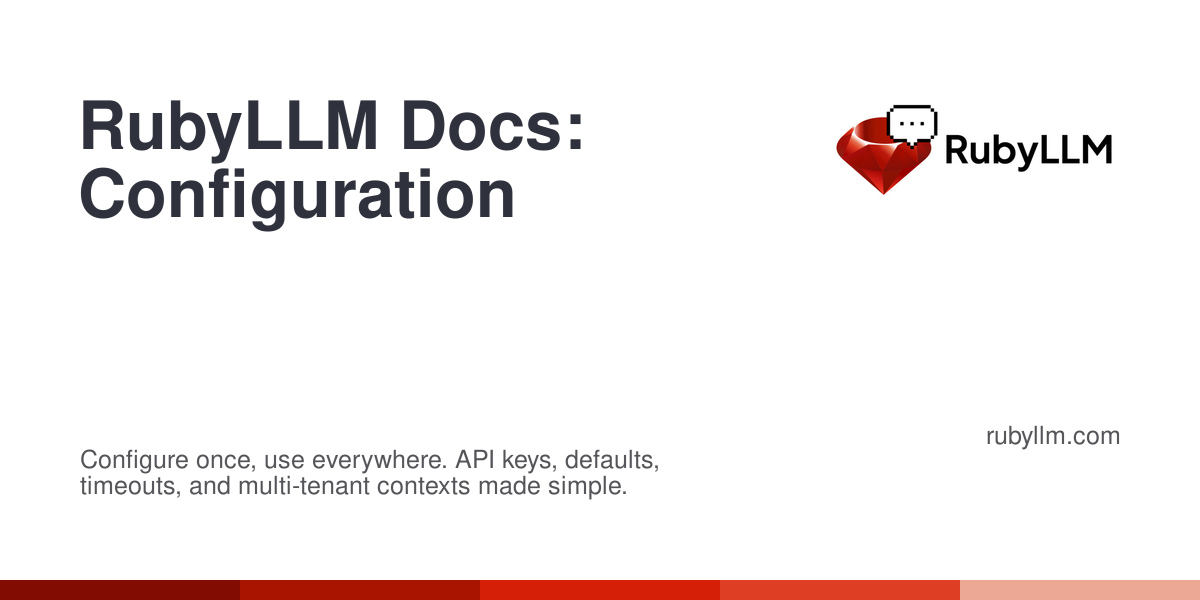
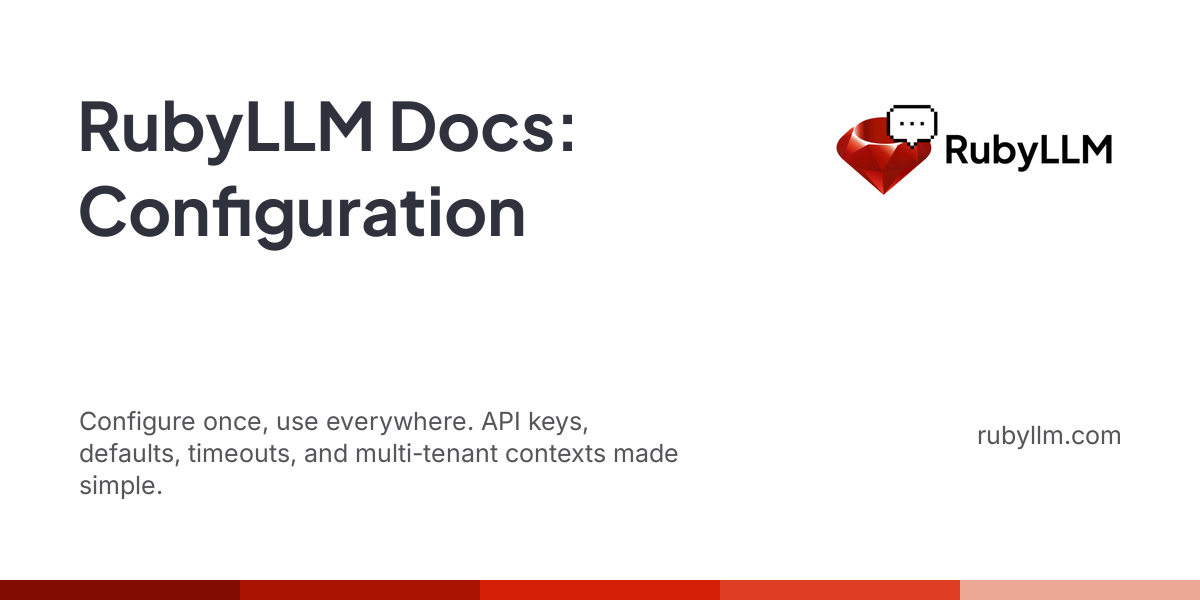
ci: install fonts for jekyll-og-image generation
Add Plus Jakarta Sans and Inter fonts to the docs workflow to ensure
proper rendering of Open Graph images with the configured typography

Changed region(s): [[0.0617, 0.15, 0.4933, 0.42], [0.0617, 0.69, 0.5858, 0.84], [0.8017, 0.69, 0.925, 0.75]]

diff --git a/docs/guides/index.md b/docs/guides/index.md
@@ -10,3 +10,4 @@ description: Learn to build with AI. From chat basics to production Rails apps, 
 # RubyLLM Guides
 
 Everything you need to know to build amazing AI features in Ruby.
+{: .fs-6 .fw-300 }
